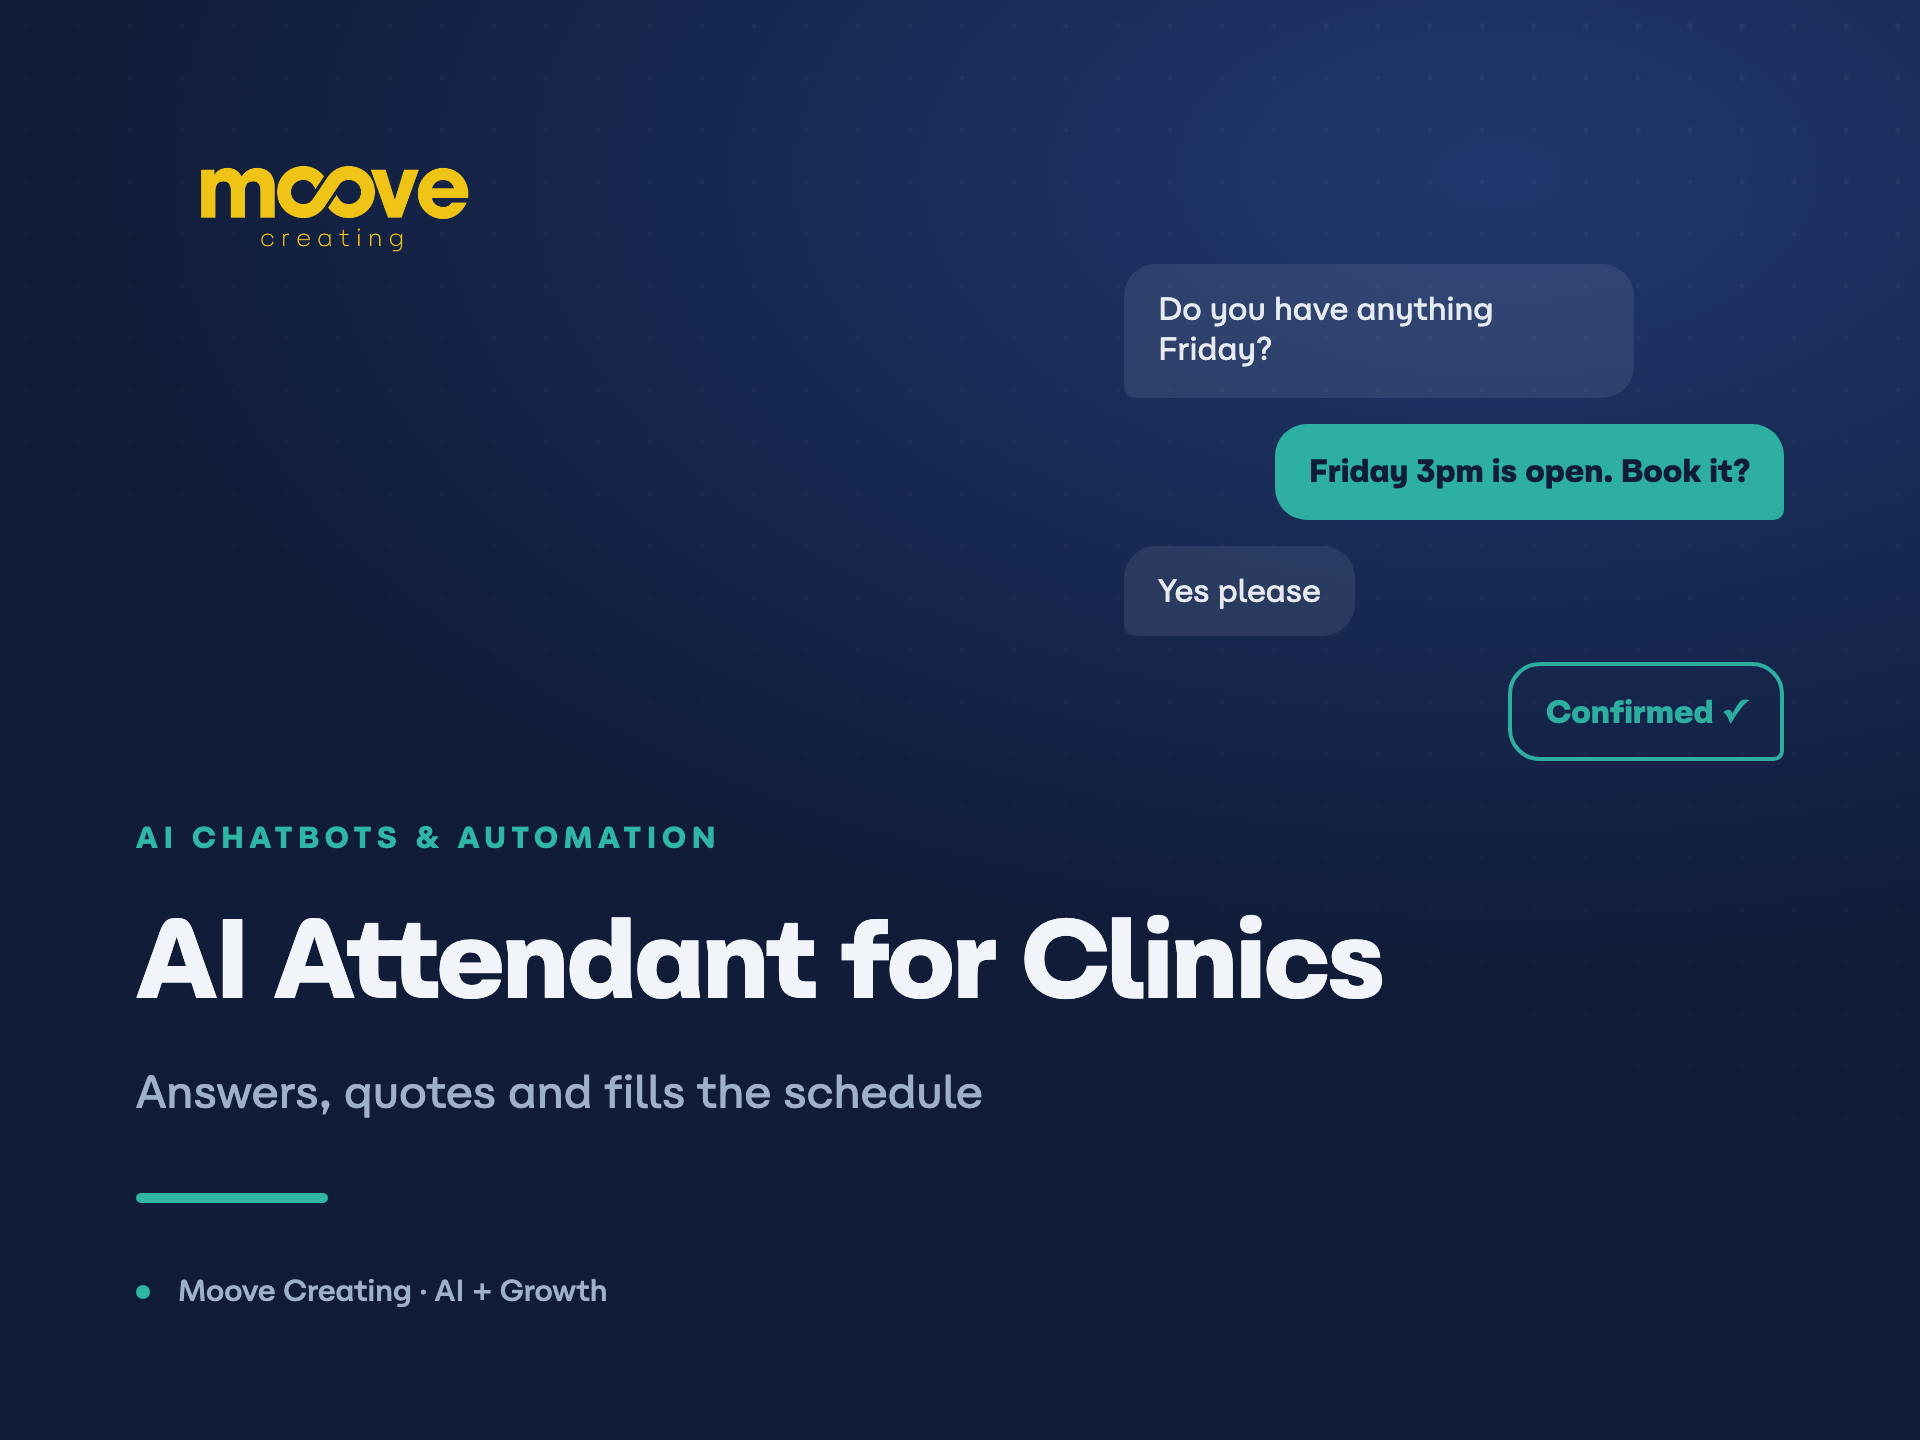
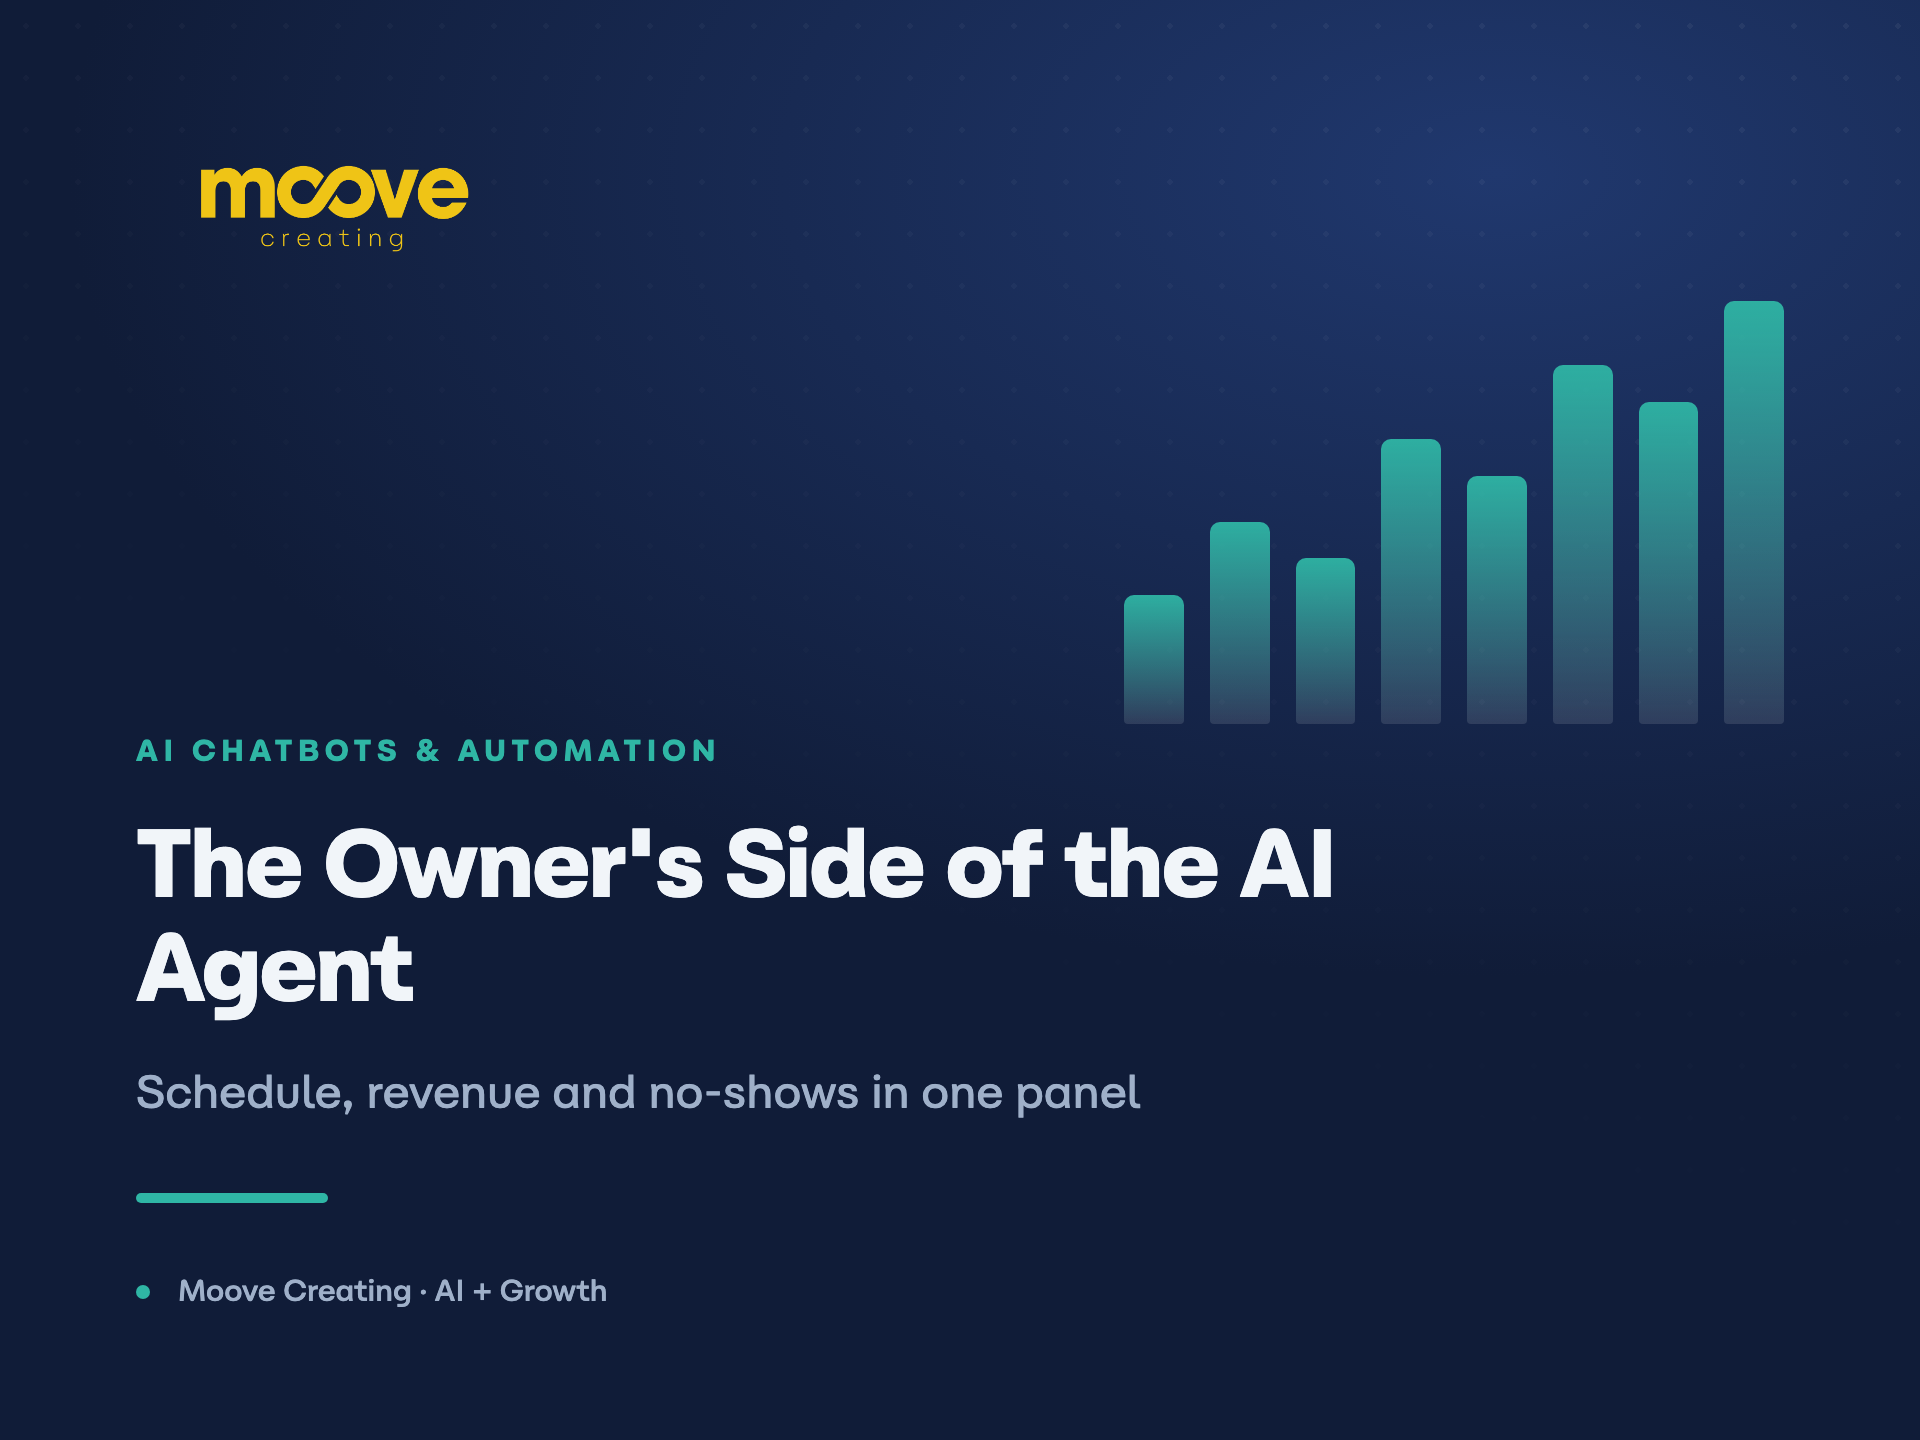
Fix CRM video tag; walkthroughs now HTML with readable full-size images per stage; 1-2 cover retitled to barbershop; rename service to Lead Generation & Outreach

diff --git a/4-1-webinar-funnel.html b/4-1-webinar-funnel.html
@@ -33,6 +33,19 @@ p{font-size:18px;color:#d7e0ea;margin-bottom:18px;max-width:44em}
 .shot img,.shot video{width:100%;display:block;background:#0d1730}
 .shot.wide img{border-bottom:1px solid rgba(255,255,255,.06)}
 .shot figcaption{padding:13px 16px 16px;font-size:13.5px;color:var(--dim);line-height:1.45}
+.stages{display:flex;flex-direction:column;gap:46px;margin-top:14px}
+.stg{display:flex;gap:26px;align-items:flex-start}
+.stg .num{width:46px;height:46px;border-radius:50%;background:var(--accent,var(--teal));color:#101C38;font-weight:800;
+ font-size:18px;display:flex;align-items:center;justify-content:center;flex:none}
+.stg .txt{flex:1;min-width:220px;max-width:22em;padding-top:3px}
+.stg .txt h4{font-size:22px;font-weight:800;color:var(--accent,var(--teal));margin-bottom:9px;letter-spacing:-.01em}
+.stg .txt p{font-size:17px;color:#d7e0ea;margin:0}
+.stg .stgimg{flex:none;display:block;border-radius:13px;overflow:hidden;border:1px solid rgba(255,255,255,.14);
+ box-shadow:0 16px 40px -18px rgba(0,0,0,.6);background:#0d1730}
+.stg .stgimg img{display:block}
+.stg .stgimg.portrait img{height:440px;width:auto;max-width:100%}
+.stg .stgimg.landscape img{width:560px;max-width:100%;height:auto}
+@media(max-width:820px){.stg{flex-wrap:wrap}.stg .stgimg.landscape img{width:100%}.stg .stgimg.portrait img{height:auto;width:100%}}
 .meta{display:flex;flex-wrap:wrap;gap:34px;margin-top:44px;padding-top:30px;border-top:1px solid rgba(255,255,255,.1)}
 .meta div small{display:block;font-size:12px;letter-spacing:.16em;text-transform:uppercase;color:var(--dim);margin-bottom:6px}
 .meta div span{font-size:16px;font-weight:600}
@@ -53,17 +66,17 @@ footer{border-top:1px solid rgba(255,255,255,.08);margin-top:80px;padding:34px 2
 <a class=back href="./index.html">← All work</a></div></div>
 <main>
 <div class=hero>
-<div class=eyebrow>Lead Generation & Telemarketing</div>
+<div class=eyebrow>Lead Generation & Outreach</div>
 <h1>End-to-End Webinar &amp; Ebook Funnel for a Real Estate Educator</h1>
 <p class=lede>A real estate educator had an engaged audience but no repeatable way to turn attention into registrations and program sales. Every launch was assembled from scratch, results were impossible to compare between cycles, and there was no way to tell which part of the promotion was doing the work.</p>
 </div>
 <img class=cover src="covers/4-1-webinar-funnel.png" alt="End-to-End Webinar &amp; Ebook Funnel for a Real Estate Educator">
 <h2>What we built</h2>
 <p>We built the funnel end to end. Registration and thank-you pages with Meta Pixel conversion tracking, an ebook lead-magnet funnel feeding the top, and a full lifecycle email sequence covering reminders, no-show re-engagement and a post-webinar replay-and-offer flow. Meta ad campaigns were structured across three distinct audiences to drive registrations, with tracking clean enough to read exactly which audience and which creative converted. A live dashboard pulls ads, organic and video data automatically, so performance is visible during the launch rather than after it.</p><p>The brand now owns a launch-ready system it reuses every cycle: tracked registrations, automated follow-up that recovers no-shows on its own, and ad structures built to scale profitably instead of being rebuilt each time.</p>
-<h2>Inside the project</h2><div class=shots><figure class="shot wide"><img src="shots/funnel-webinar-walkthrough.png" alt="The funnel stage by stage, each step tracked" loading="lazy"><figcaption>The funnel stage by stage, each step tracked</figcaption></figure></div>
+<h2>Inside the project</h2><div class=shots><div class=stages><div class=stg><div class=num>1</div><div class=txt><h4>Attract</h4><p>Meta ads across three audiences drive registrations, all conversion-tracked.</p></div><a class="stgimg portrait" href="shots/ad-skles.png" target="_blank" rel="noopener"><img src="shots/ad-skles.png" alt="Attract" loading="lazy"></a></div><div class=stg><div class=num>2</div><div class=txt><h4>Capture</h4><p>A registration email plus a landing page with the Meta Pixel firing on submit.</p></div><a class="stgimg portrait" href="shots/funnel-email-registration.png" target="_blank" rel="noopener"><img src="shots/funnel-email-registration.png" alt="Capture" loading="lazy"></a></div><div class=stg><div class=num>3</div><div class=txt><h4>Nurture</h4><p>An ebook lead magnet delivers value and warms the lead before the webinar.</p></div><a class="stgimg landscape" href="shots/funnel-ebook-lp.png" target="_blank" rel="noopener"><img src="shots/funnel-ebook-lp.png" alt="Nurture" loading="lazy"></a></div><div class=stg><div class=num>4</div><div class=txt><h4>Retain</h4><p>A nine-email sequence: reminders, no-show re-engagement, and a replay-and-offer flow.</p></div><a class="stgimg portrait" href="shots/funnel-email-noshow.png" target="_blank" rel="noopener"><img src="shots/funnel-email-noshow.png" alt="Retain" loading="lazy"></a></div><div class=stg><div class=num>5</div><div class=txt><h4>Convert</h4><p>The thank-you page closes the loop and fires the conversion event.</p></div><a class="stgimg landscape" href="shots/funnel-thankyou.png" target="_blank" rel="noopener"><img src="shots/funnel-thankyou.png" alt="Convert" loading="lazy"></a></div></div></div>
 <h2>Skills</h2>
 <div class=tags><b>Sales Funnel</b><b>Lead Generation</b><b>Email Marketing</b><b>Landing Page</b><b>Facebook Ads Manager</b><b>Conversion Rate Optimization</b><b>Copywriting</b><b>Marketing Automation</b><b>Email Campaign Setup</b><b>Conversion Tracking</b></div>
-<div class=meta><div><small>Service</small><span>Lead Generation & Telemarketing</span></div>
+<div class=meta><div><small>Service</small><span>Lead Generation & Outreach</span></div>
 <div><small>Category</small><span>Sales &amp; Marketing → Lead Generation</span></div></div>
 </main>
 <footer>Moove Creating · AI automation and growth marketing</footer></body></html>

diff --git a/4-2-lead-recovery.html b/4-2-lead-recovery.html
@@ -33,6 +33,19 @@ p{font-size:18px;color:#d7e0ea;margin-bottom:18px;max-width:44em}
 .shot img,.shot video{width:100%;display:block;background:#0d1730}
 .shot.wide img{border-bottom:1px solid rgba(255,255,255,.06)}
 .shot figcaption{padding:13px 16px 16px;font-size:13.5px;color:var(--dim);line-height:1.45}
+.stages{display:flex;flex-direction:column;gap:46px;margin-top:14px}
+.stg{display:flex;gap:26px;align-items:flex-start}
+.stg .num{width:46px;height:46px;border-radius:50%;background:var(--accent,var(--teal));color:#101C38;font-weight:800;
+ font-size:18px;display:flex;align-items:center;justify-content:center;flex:none}
+.stg .txt{flex:1;min-width:220px;max-width:22em;padding-top:3px}
+.stg .txt h4{font-size:22px;font-weight:800;color:var(--accent,var(--teal));margin-bottom:9px;letter-spacing:-.01em}
+.stg .txt p{font-size:17px;color:#d7e0ea;margin:0}
+.stg .stgimg{flex:none;display:block;border-radius:13px;overflow:hidden;border:1px solid rgba(255,255,255,.14);
+ box-shadow:0 16px 40px -18px rgba(0,0,0,.6);background:#0d1730}
+.stg .stgimg img{display:block}
+.stg .stgimg.portrait img{height:440px;width:auto;max-width:100%}
+.stg .stgimg.landscape img{width:560px;max-width:100%;height:auto}
+@media(max-width:820px){.stg{flex-wrap:wrap}.stg .stgimg.landscape img{width:100%}.stg .stgimg.portrait img{height:auto;width:100%}}
 .meta{display:flex;flex-wrap:wrap;gap:34px;margin-top:44px;padding-top:30px;border-top:1px solid rgba(255,255,255,.1)}
 .meta div small{display:block;font-size:12px;letter-spacing:.16em;text-transform:uppercase;color:var(--dim);margin-bottom:6px}
 .meta div span{font-size:16px;font-weight:600}
@@ -53,7 +66,7 @@ footer{border-top:1px solid rgba(255,255,255,.08);margin-top:80px;padding:34px 2
 <a class=back href="./index.html">← All work</a></div></div>
 <main>
 <div class=hero>
-<div class=eyebrow>Lead Generation & Telemarketing</div>
+<div class=eyebrow>Lead Generation & Outreach</div>
 <h1>Diagnosing a 65% Lead Drop and Rebuilding the Acquisition Channel Mix</h1>
 <p class=lede>Monthly leads fell sharply and nobody could explain why. Spend was still going out the door, the pipeline was not filling, and the team was preparing to overhaul the creative, on the assumption that the ads had stopped working.</p>
 </div>
@@ -63,7 +76,7 @@ footer{border-top:1px solid rgba(255,255,255,.08);margin-top:80px;padding:34px 2
 <h2>Inside the project</h2><div class=shots><figure class="shot wide"><img src="shots/lead-drop-chart.png" alt="Diagnosing the 65% drop: the cause was a paused campaign, then the recovery" loading="lazy"><figcaption>Diagnosing the 65% drop: the cause was a paused campaign, then the recovery</figcaption></figure><figure class="shot wide"><img src="shots/se-dashboard.png" alt="The reporting that now flags this kind of drop the week it starts" loading="lazy"><figcaption>The reporting that now flags this kind of drop the week it starts</figcaption></figure></div>
 <h2>Skills</h2>
 <div class=tags><b>Lead Generation</b><b>Paid Media</b><b>Google Ads</b><b>Facebook Ads Manager</b><b>Marketing Analytics</b><b>Campaign Optimization</b><b>Marketing Strategy</b><b>Data Analysis</b><b>Retargeting</b></div>
-<div class=meta><div><small>Service</small><span>Lead Generation & Telemarketing</span></div>
+<div class=meta><div><small>Service</small><span>Lead Generation & Outreach</span></div>
 <div><small>Category</small><span>Sales &amp; Marketing → Lead Generation</span></div></div>
 </main>
 <footer>Moove Creating · AI automation and growth marketing</footer></body></html>

diff --git a/2-3-custom-crm.html b/2-3-custom-crm.html
@@ -33,6 +33,19 @@ p{font-size:18px;color:#d7e0ea;margin-bottom:18px;max-width:44em}
 .shot img,.shot video{width:100%;display:block;background:#0d1730}
 .shot.wide img{border-bottom:1px solid rgba(255,255,255,.06)}
 .shot figcaption{padding:13px 16px 16px;font-size:13.5px;color:var(--dim);line-height:1.45}
+.stages{display:flex;flex-direction:column;gap:46px;margin-top:14px}
+.stg{display:flex;gap:26px;align-items:flex-start}
+.stg .num{width:46px;height:46px;border-radius:50%;background:var(--accent,var(--teal));color:#101C38;font-weight:800;
+ font-size:18px;display:flex;align-items:center;justify-content:center;flex:none}
+.stg .txt{flex:1;min-width:220px;max-width:22em;padding-top:3px}
+.stg .txt h4{font-size:22px;font-weight:800;color:var(--accent,var(--teal));margin-bottom:9px;letter-spacing:-.01em}
+.stg .txt p{font-size:17px;color:#d7e0ea;margin:0}
+.stg .stgimg{flex:none;display:block;border-radius:13px;overflow:hidden;border:1px solid rgba(255,255,255,.14);
+ box-shadow:0 16px 40px -18px rgba(0,0,0,.6);background:#0d1730}
+.stg .stgimg img{display:block}
+.stg .stgimg.portrait img{height:440px;width:auto;max-width:100%}
+.stg .stgimg.landscape img{width:560px;max-width:100%;height:auto}
+@media(max-width:820px){.stg{flex-wrap:wrap}.stg .stgimg.landscape img{width:100%}.stg .stgimg.portrait img{height:auto;width:100%}}
 .meta{display:flex;flex-wrap:wrap;gap:34px;margin-top:44px;padding-top:30px;border-top:1px solid rgba(255,255,255,.1)}
 .meta div small{display:block;font-size:12px;letter-spacing:.16em;text-transform:uppercase;color:var(--dim);margin-bottom:6px}
 .meta div span{font-size:16px;font-weight:600}
@@ -60,7 +73,7 @@ footer{border-top:1px solid rgba(255,255,255,.08);margin-top:80px;padding:34px 2
 <img class=cover src="covers/2-3-custom-crm.png" alt="Custom Web CRM with Live-Synced Pipelines and Automated Follow-Up">
 <h2>What we built</h2>
 <p>We built a custom web CRM with a separate pipeline per business line, syncing live across devices so everyone sees the same board at the same time. Each lead carries a stage, an owner and a next action, so nothing sits in limbo. Automated follow-up reminders fire on their own, and the CRM is wired into the outreach flow so every contact and reply attaches to the lead automatically. No one has to remember to log anything.</p><p>The result is one source of truth instead of three. Follow-up happens whether or not someone remembers it, and the pipeline can be read at a glance instead of reconstructed from notes at the end of the week.</p>
-<h2>Inside the project</h2><div class=shots><figure class="shot wide"><img src="shots/crm-board.png" alt="Live-synced pipeline board, one workspace per business line" loading="lazy"><figcaption>Live-synced pipeline board, one workspace per business line</figcaption></figure><figure class="shot wide"><img src="shots/crm-lead.png" alt="Inside a lead: stage, owner, and an activity trail of automated follow-up" loading="lazy"><figcaption>Inside a lead: stage, owner, and an activity trail of automated follow-up</figcaption></figure><div class=grid3><figure class=shot><img src="shots/crm-demo.mp4" alt="A walk through the CRM: pipeline board, then inside a lead with its automated follow-up trail" loading="lazy"><figcaption>A walk through the CRM: pipeline board, then inside a lead with its automated follow-up trail</figcaption></figure></div></div>
+<h2>Inside the project</h2><div class=shots><figure class="shot wide"><video src="shots/crm-demo.mp4" autoplay muted loop playsinline controls></video><figcaption>A walk through the CRM: pipeline board, then inside a lead with its automated follow-up trail</figcaption></figure><figure class="shot wide"><img src="shots/crm-board.png" alt="Live-synced pipeline board, one workspace per business line" loading="lazy"><figcaption>Live-synced pipeline board, one workspace per business line</figcaption></figure><figure class="shot wide"><img src="shots/crm-lead.png" alt="Inside a lead: stage, owner, and an activity trail of automated follow-up" loading="lazy"><figcaption>Inside a lead: stage, owner, and an activity trail of automated follow-up</figcaption></figure></div>
 <h2>Skills</h2>
 <div class=tags><b>CRM Software</b><b>Web Application</b><b>Firebase</b><b>JavaScript</b><b>API Integration</b><b>Automated Workflow</b><b>CRM Automation</b><b>Database Design</b><b>Lead Management</b></div>
 <div class=meta><div><small>Service</small><span>AI Apps & Integration</span></div>

diff --git a/3-2-growth-system.html b/3-2-growth-system.html
@@ -33,6 +33,19 @@ p{font-size:18px;color:#d7e0ea;margin-bottom:18px;max-width:44em}
 .shot img,.shot video{width:100%;display:block;background:#0d1730}
 .shot.wide img{border-bottom:1px solid rgba(255,255,255,.06)}
 .shot figcaption{padding:13px 16px 16px;font-size:13.5px;color:var(--dim);line-height:1.45}
+.stages{display:flex;flex-direction:column;gap:46px;margin-top:14px}
+.stg{display:flex;gap:26px;align-items:flex-start}
+.stg .num{width:46px;height:46px;border-radius:50%;background:var(--accent,var(--teal));color:#101C38;font-weight:800;
+ font-size:18px;display:flex;align-items:center;justify-content:center;flex:none}
+.stg .txt{flex:1;min-width:220px;max-width:22em;padding-top:3px}
+.stg .txt h4{font-size:22px;font-weight:800;color:var(--accent,var(--teal));margin-bottom:9px;letter-spacing:-.01em}
+.stg .txt p{font-size:17px;color:#d7e0ea;margin:0}
+.stg .stgimg{flex:none;display:block;border-radius:13px;overflow:hidden;border:1px solid rgba(255,255,255,.14);
+ box-shadow:0 16px 40px -18px rgba(0,0,0,.6);background:#0d1730}
+.stg .stgimg img{display:block}
+.stg .stgimg.portrait img{height:440px;width:auto;max-width:100%}
+.stg .stgimg.landscape img{width:560px;max-width:100%;height:auto}
+@media(max-width:820px){.stg{flex-wrap:wrap}.stg .stgimg.landscape img{width:100%}.stg .stgimg.portrait img{height:auto;width:100%}}
 .meta{display:flex;flex-wrap:wrap;gap:34px;margin-top:44px;padding-top:30px;border-top:1px solid rgba(255,255,255,.1)}
 .meta div small{display:block;font-size:12px;letter-spacing:.16em;text-transform:uppercase;color:var(--dim);margin-bottom:6px}
 .meta div span{font-size:16px;font-weight:600}
@@ -60,7 +73,7 @@ footer{border-top:1px solid rgba(255,255,255,.08);margin-top:80px;padding:34px 2
 <img class=cover src="covers/3-2-growth-system.png" alt="Growth System &amp; Performance Intelligence for a B2B Brand">
 <h2>What we built</h2>
 <p>We led content and paid strategy across Meta and Google, built the landing pages and the webinar promotion funnel behind the campaigns, and created dashboards connecting content and ad performance back to leads. On top of that we established a weekly performance ritual: a fixed read of the numbers to catch patterns early, kill what was not working and put budget behind what was. Strategy stopped being an annual document and became a weekly decision backed by data.</p><p>The brand ended up with a documented growth-and-reporting system, a clear read on the full funnel from impression to lead, and a repeatable process for deciding where the next dollar goes.</p>
-<h2>Inside the project</h2><div class=shots><figure class="shot wide"><img src="shots/growth-walkthrough.png" alt="The system stage by stage, from ad creative to the dashboard that measures it" loading="lazy"><figcaption>The system stage by stage, from ad creative to the dashboard that measures it</figcaption></figure></div>
+<h2>Inside the project</h2><div class=shots><div class=stages><div class=stg><div class=num>1</div><div class=txt><h4>Attract</h4><p>Organic and paid creative on Meta and Google, built on audience data.</p></div><a class="stgimg portrait" href="shots/ad-se-ig.png" target="_blank" rel="noopener"><img src="shots/ad-se-ig.png" alt="Attract" loading="lazy"></a></div><div class=stg><div class=num>2</div><div class=txt><h4>Capture</h4><p>Landing pages and a webinar funnel with clean conversion tracking.</p></div><a class="stgimg landscape" href="shots/se-landing.png" target="_blank" rel="noopener"><img src="shots/se-landing.png" alt="Capture" loading="lazy"></a></div><div class=stg><div class=num>3</div><div class=txt><h4>Convert</h4><p>Retargeting and email nurture turn attention into qualified leads.</p></div><a class="stgimg landscape" href="shots/ad-se-carousel.png" target="_blank" rel="noopener"><img src="shots/ad-se-carousel.png" alt="Convert" loading="lazy"></a></div><div class=stg><div class=num>4</div><div class=txt><h4>Measure</h4><p>Live dashboards tie every channel&#x27;s performance back to leads.</p></div><a class="stgimg landscape" href="shots/se-dashboard.png" target="_blank" rel="noopener"><img src="shots/se-dashboard.png" alt="Measure" loading="lazy"></a></div><div class=stg><div class=num>5</div><div class=txt><h4>Decide</h4><p>A weekly report to leadership that turns the numbers into one clear call: what to scale, what to hold.</p></div><a class="stgimg portrait" href="shots/weekly-report-email.png" target="_blank" rel="noopener"><img src="shots/weekly-report-email.png" alt="Decide" loading="lazy"></a></div></div></div>
 <h2>Skills</h2>
 <div class=tags><b>Marketing Strategy</b><b>Social Media Marketing</b><b>Paid Media</b><b>Campaign Management</b><b>Landing Page</b><b>Marketing Analytics</b><b>Content Strategy</b><b>Facebook Ads Manager</b><b>Google Ads</b><b>Dashboard</b></div>
 <div class=meta><div><small>Service</small><span>Digital Marketing</span></div>

diff --git a/index.html b/index.html
@@ -33,6 +33,19 @@ p{font-size:18px;color:#d7e0ea;margin-bottom:18px;max-width:44em}
 .shot img,.shot video{width:100%;display:block;background:#0d1730}
 .shot.wide img{border-bottom:1px solid rgba(255,255,255,.06)}
 .shot figcaption{padding:13px 16px 16px;font-size:13.5px;color:var(--dim);line-height:1.45}
+.stages{display:flex;flex-direction:column;gap:46px;margin-top:14px}
+.stg{display:flex;gap:26px;align-items:flex-start}
+.stg .num{width:46px;height:46px;border-radius:50%;background:var(--accent,var(--teal));color:#101C38;font-weight:800;
+ font-size:18px;display:flex;align-items:center;justify-content:center;flex:none}
+.stg .txt{flex:1;min-width:220px;max-width:22em;padding-top:3px}
+.stg .txt h4{font-size:22px;font-weight:800;color:var(--accent,var(--teal));margin-bottom:9px;letter-spacing:-.01em}
+.stg .txt p{font-size:17px;color:#d7e0ea;margin:0}
+.stg .stgimg{flex:none;display:block;border-radius:13px;overflow:hidden;border:1px solid rgba(255,255,255,.14);
+ box-shadow:0 16px 40px -18px rgba(0,0,0,.6);background:#0d1730}
+.stg .stgimg img{display:block}
+.stg .stgimg.portrait img{height:440px;width:auto;max-width:100%}
+.stg .stgimg.landscape img{width:560px;max-width:100%;height:auto}
+@media(max-width:820px){.stg{flex-wrap:wrap}.stg .stgimg.landscape img{width:100%}.stg .stgimg.portrait img{height:auto;width:100%}}
 .meta{display:flex;flex-wrap:wrap;gap:34px;margin-top:44px;padding-top:30px;border-top:1px solid rgba(255,255,255,.1)}
 .meta div small{display:block;font-size:12px;letter-spacing:.16em;text-transform:uppercase;color:var(--dim);margin-bottom:6px}
 .meta div span{font-size:16px;font-weight:600}
@@ -66,7 +79,7 @@ footer{border-top:1px solid rgba(255,255,255,.08);margin-top:80px;padding:34px 2
       <div class=b><h3>Custom Web CRM with Live-Synced Pipelines and Automated Follow-Up</h3><p>Leads lived in scattered notes and spreadsheets. Two people were working the same pipeline from different devices with different v…</p></div></a></div></div><div class=group><span style="color:#F8AF38">Digital Marketing</span><div class=cards><a class=card href="3-1-content-pipeline.html"><img src="covers/3-1-content-pipeline.png" alt="">
       <div class=b><h3>AI Content Pipeline: Turning Interviews into Ad Creative at Scale</h3><p>A brand had hours of raw interview footage and no efficient way to turn it into advertising. Finding the moments worth using meant…</p></div></a><a class=card href="3-2-growth-system.html"><img src="covers/3-2-growth-system.png" alt="">
       <div class=b><h3>Growth System &amp; Performance Intelligence for a B2B Brand</h3><p>A B2B brand was producing content and spending on ads without a system tying either back to results. Effort was scattered across c…</p></div></a><a class=card href="3-3-medical-authority.html"><img src="covers/3-3-medical-authority.png" alt="">
-      <div class=b><h3>Building Medical Authority: 100M+ Reach for a Doctor Creator</h3><p>A doctor with real expertise had no meaningful digital presence, and the obvious path to reach in health content is the one that c…</p></div></a></div></div><div class=group><span style="color:#5FC24D">Lead Generation & Telemarketing</span><div class=cards><a class=card href="4-1-webinar-funnel.html"><img src="covers/4-1-webinar-funnel.png" alt="">
+      <div class=b><h3>Building Medical Authority: 100M+ Reach for a Doctor Creator</h3><p>A doctor with real expertise had no meaningful digital presence, and the obvious path to reach in health content is the one that c…</p></div></a></div></div><div class=group><span style="color:#5FC24D">Lead Generation & Outreach</span><div class=cards><a class=card href="4-1-webinar-funnel.html"><img src="covers/4-1-webinar-funnel.png" alt="">
       <div class=b><h3>End-to-End Webinar &amp; Ebook Funnel for a Real Estate Educator</h3><p>A real estate educator had an engaged audience but no repeatable way to turn attention into registrations and program sales. Every…</p></div></a><a class=card href="4-2-lead-recovery.html"><img src="covers/4-2-lead-recovery.png" alt="">
       <div class=b><h3>Diagnosing a 65% Lead Drop and Rebuilding the Acquisition Channel Mix</h3><p>Monthly leads fell sharply and nobody could explain why. Spend was still going out the door, the pipeline was not filling, and the…</p></div></a></div></div>
 </main>

diff --git a/1-1-whatsapp-agent.html b/1-1-whatsapp-agent.html
@@ -33,6 +33,19 @@ p{font-size:18px;color:#d7e0ea;margin-bottom:18px;max-width:44em}
 .shot img,.shot video{width:100%;display:block;background:#0d1730}
 .shot.wide img{border-bottom:1px solid rgba(255,255,255,.06)}
 .shot figcaption{padding:13px 16px 16px;font-size:13.5px;color:var(--dim);line-height:1.45}
+.stages{display:flex;flex-direction:column;gap:46px;margin-top:14px}
+.stg{display:flex;gap:26px;align-items:flex-start}
+.stg .num{width:46px;height:46px;border-radius:50%;background:var(--accent,var(--teal));color:#101C38;font-weight:800;
+ font-size:18px;display:flex;align-items:center;justify-content:center;flex:none}
+.stg .txt{flex:1;min-width:220px;max-width:22em;padding-top:3px}
+.stg .txt h4{font-size:22px;font-weight:800;color:var(--accent,var(--teal));margin-bottom:9px;letter-spacing:-.01em}
+.stg .txt p{font-size:17px;color:#d7e0ea;margin:0}
+.stg .stgimg{flex:none;display:block;border-radius:13px;overflow:hidden;border:1px solid rgba(255,255,255,.14);
+ box-shadow:0 16px 40px -18px rgba(0,0,0,.6);background:#0d1730}
+.stg .stgimg img{display:block}
+.stg .stgimg.portrait img{height:440px;width:auto;max-width:100%}
+.stg .stgimg.landscape img{width:560px;max-width:100%;height:auto}
+@media(max-width:820px){.stg{flex-wrap:wrap}.stg .stgimg.landscape img{width:100%}.stg .stgimg.portrait img{height:auto;width:100%}}
 .meta{display:flex;flex-wrap:wrap;gap:34px;margin-top:44px;padding-top:30px;border-top:1px solid rgba(255,255,255,.1)}
 .meta div small{display:block;font-size:12px;letter-spacing:.16em;text-transform:uppercase;color:var(--dim);margin-bottom:6px}
 .meta div span{font-size:16px;font-weight:600}

diff --git a/1-2-clinic-agent.html b/1-2-clinic-agent.html
@@ -33,6 +33,19 @@ p{font-size:18px;color:#d7e0ea;margin-bottom:18px;max-width:44em}
 .shot img,.shot video{width:100%;display:block;background:#0d1730}
 .shot.wide img{border-bottom:1px solid rgba(255,255,255,.06)}
 .shot figcaption{padding:13px 16px 16px;font-size:13.5px;color:var(--dim);line-height:1.45}
+.stages{display:flex;flex-direction:column;gap:46px;margin-top:14px}
+.stg{display:flex;gap:26px;align-items:flex-start}
+.stg .num{width:46px;height:46px;border-radius:50%;background:var(--accent,var(--teal));color:#101C38;font-weight:800;
+ font-size:18px;display:flex;align-items:center;justify-content:center;flex:none}
+.stg .txt{flex:1;min-width:220px;max-width:22em;padding-top:3px}
+.stg .txt h4{font-size:22px;font-weight:800;color:var(--accent,var(--teal));margin-bottom:9px;letter-spacing:-.01em}
+.stg .txt p{font-size:17px;color:#d7e0ea;margin:0}
+.stg .stgimg{flex:none;display:block;border-radius:13px;overflow:hidden;border:1px solid rgba(255,255,255,.14);
+ box-shadow:0 16px 40px -18px rgba(0,0,0,.6);background:#0d1730}
+.stg .stgimg img{display:block}
+.stg .stgimg.portrait img{height:440px;width:auto;max-width:100%}
+.stg .stgimg.landscape img{width:560px;max-width:100%;height:auto}
+@media(max-width:820px){.stg{flex-wrap:wrap}.stg .stgimg.landscape img{width:100%}.stg .stgimg.portrait img{height:auto;width:100%}}
 .meta{display:flex;flex-wrap:wrap;gap:34px;margin-top:44px;padding-top:30px;border-top:1px solid rgba(255,255,255,.1)}
 .meta div small{display:block;font-size:12px;letter-spacing:.16em;text-transform:uppercase;color:var(--dim);margin-bottom:6px}
 .meta div span{font-size:16px;font-weight:600}

diff --git a/1-3-internal-ops.html b/1-3-internal-ops.html
@@ -33,6 +33,19 @@ p{font-size:18px;color:#d7e0ea;margin-bottom:18px;max-width:44em}
 .shot img,.shot video{width:100%;display:block;background:#0d1730}
 .shot.wide img{border-bottom:1px solid rgba(255,255,255,.06)}
 .shot figcaption{padding:13px 16px 16px;font-size:13.5px;color:var(--dim);line-height:1.45}
+.stages{display:flex;flex-direction:column;gap:46px;margin-top:14px}
+.stg{display:flex;gap:26px;align-items:flex-start}
+.stg .num{width:46px;height:46px;border-radius:50%;background:var(--accent,var(--teal));color:#101C38;font-weight:800;
+ font-size:18px;display:flex;align-items:center;justify-content:center;flex:none}
+.stg .txt{flex:1;min-width:220px;max-width:22em;padding-top:3px}
+.stg .txt h4{font-size:22px;font-weight:800;color:var(--accent,var(--teal));margin-bottom:9px;letter-spacing:-.01em}
+.stg .txt p{font-size:17px;color:#d7e0ea;margin:0}
+.stg .stgimg{flex:none;display:block;border-radius:13px;overflow:hidden;border:1px solid rgba(255,255,255,.14);
+ box-shadow:0 16px 40px -18px rgba(0,0,0,.6);background:#0d1730}
+.stg .stgimg img{display:block}
+.stg .stgimg.portrait img{height:440px;width:auto;max-width:100%}
+.stg .stgimg.landscape img{width:560px;max-width:100%;height:auto}
+@media(max-width:820px){.stg{flex-wrap:wrap}.stg .stgimg.landscape img{width:100%}.stg .stgimg.portrait img{height:auto;width:100%}}
 .meta{display:flex;flex-wrap:wrap;gap:34px;margin-top:44px;padding-top:30px;border-top:1px solid rgba(255,255,255,.1)}
 .meta div small{display:block;font-size:12px;letter-spacing:.16em;text-transform:uppercase;color:var(--dim);margin-bottom:6px}
 .meta div span{font-size:16px;font-weight:600}

diff --git a/2-1-vertical-saas.html b/2-1-vertical-saas.html
@@ -33,6 +33,19 @@ p{font-size:18px;color:#d7e0ea;margin-bottom:18px;max-width:44em}
 .shot img,.shot video{width:100%;display:block;background:#0d1730}
 .shot.wide img{border-bottom:1px solid rgba(255,255,255,.06)}
 .shot figcaption{padding:13px 16px 16px;font-size:13.5px;color:var(--dim);line-height:1.45}
+.stages{display:flex;flex-direction:column;gap:46px;margin-top:14px}
+.stg{display:flex;gap:26px;align-items:flex-start}
+.stg .num{width:46px;height:46px;border-radius:50%;background:var(--accent,var(--teal));color:#101C38;font-weight:800;
+ font-size:18px;display:flex;align-items:center;justify-content:center;flex:none}
+.stg .txt{flex:1;min-width:220px;max-width:22em;padding-top:3px}
+.stg .txt h4{font-size:22px;font-weight:800;color:var(--accent,var(--teal));margin-bottom:9px;letter-spacing:-.01em}
+.stg .txt p{font-size:17px;color:#d7e0ea;margin:0}
+.stg .stgimg{flex:none;display:block;border-radius:13px;overflow:hidden;border:1px solid rgba(255,255,255,.14);
+ box-shadow:0 16px 40px -18px rgba(0,0,0,.6);background:#0d1730}
+.stg .stgimg img{display:block}
+.stg .stgimg.portrait img{height:440px;width:auto;max-width:100%}
+.stg .stgimg.landscape img{width:560px;max-width:100%;height:auto}
+@media(max-width:820px){.stg{flex-wrap:wrap}.stg .stgimg.landscape img{width:100%}.stg .stgimg.portrait img{height:auto;width:100%}}
 .meta{display:flex;flex-wrap:wrap;gap:34px;margin-top:44px;padding-top:30px;border-top:1px solid rgba(255,255,255,.1)}
 .meta div small{display:block;font-size:12px;letter-spacing:.16em;text-transform:uppercase;color:var(--dim);margin-bottom:6px}
 .meta div span{font-size:16px;font-weight:600}

diff --git a/2-2-live-dashboard.html b/2-2-live-dashboard.html
@@ -33,6 +33,19 @@ p{font-size:18px;color:#d7e0ea;margin-bottom:18px;max-width:44em}
 .shot img,.shot video{width:100%;display:block;background:#0d1730}
 .shot.wide img{border-bottom:1px solid rgba(255,255,255,.06)}
 .shot figcaption{padding:13px 16px 16px;font-size:13.5px;color:var(--dim);line-height:1.45}
+.stages{display:flex;flex-direction:column;gap:46px;margin-top:14px}
+.stg{display:flex;gap:26px;align-items:flex-start}
+.stg .num{width:46px;height:46px;border-radius:50%;background:var(--accent,var(--teal));color:#101C38;font-weight:800;
+ font-size:18px;display:flex;align-items:center;justify-content:center;flex:none}
+.stg .txt{flex:1;min-width:220px;max-width:22em;padding-top:3px}
+.stg .txt h4{font-size:22px;font-weight:800;color:var(--accent,var(--teal));margin-bottom:9px;letter-spacing:-.01em}
+.stg .txt p{font-size:17px;color:#d7e0ea;margin:0}
+.stg .stgimg{flex:none;display:block;border-radius:13px;overflow:hidden;border:1px solid rgba(255,255,255,.14);
+ box-shadow:0 16px 40px -18px rgba(0,0,0,.6);background:#0d1730}
+.stg .stgimg img{display:block}
+.stg .stgimg.portrait img{height:440px;width:auto;max-width:100%}
+.stg .stgimg.landscape img{width:560px;max-width:100%;height:auto}
+@media(max-width:820px){.stg{flex-wrap:wrap}.stg .stgimg.landscape img{width:100%}.stg .stgimg.portrait img{height:auto;width:100%}}
 .meta{display:flex;flex-wrap:wrap;gap:34px;margin-top:44px;padding-top:30px;border-top:1px solid rgba(255,255,255,.1)}
 .meta div small{display:block;font-size:12px;letter-spacing:.16em;text-transform:uppercase;color:var(--dim);margin-bottom:6px}
 .meta div span{font-size:16px;font-weight:600}

diff --git a/3-1-content-pipeline.html b/3-1-content-pipeline.html
@@ -33,6 +33,19 @@ p{font-size:18px;color:#d7e0ea;margin-bottom:18px;max-width:44em}
 .shot img,.shot video{width:100%;display:block;background:#0d1730}
 .shot.wide img{border-bottom:1px solid rgba(255,255,255,.06)}
 .shot figcaption{padding:13px 16px 16px;font-size:13.5px;color:var(--dim);line-height:1.45}
+.stages{display:flex;flex-direction:column;gap:46px;margin-top:14px}
+.stg{display:flex;gap:26px;align-items:flex-start}
+.stg .num{width:46px;height:46px;border-radius:50%;background:var(--accent,var(--teal));color:#101C38;font-weight:800;
+ font-size:18px;display:flex;align-items:center;justify-content:center;flex:none}
+.stg .txt{flex:1;min-width:220px;max-width:22em;padding-top:3px}
+.stg .txt h4{font-size:22px;font-weight:800;color:var(--accent,var(--teal));margin-bottom:9px;letter-spacing:-.01em}
+.stg .txt p{font-size:17px;color:#d7e0ea;margin:0}
+.stg .stgimg{flex:none;display:block;border-radius:13px;overflow:hidden;border:1px solid rgba(255,255,255,.14);
+ box-shadow:0 16px 40px -18px rgba(0,0,0,.6);background:#0d1730}
+.stg .stgimg img{display:block}
+.stg .stgimg.portrait img{height:440px;width:auto;max-width:100%}
+.stg .stgimg.landscape img{width:560px;max-width:100%;height:auto}
+@media(max-width:820px){.stg{flex-wrap:wrap}.stg .stgimg.landscape img{width:100%}.stg .stgimg.portrait img{height:auto;width:100%}}
 .meta{display:flex;flex-wrap:wrap;gap:34px;margin-top:44px;padding-top:30px;border-top:1px solid rgba(255,255,255,.1)}
 .meta div small{display:block;font-size:12px;letter-spacing:.16em;text-transform:uppercase;color:var(--dim);margin-bottom:6px}
 .meta div span{font-size:16px;font-weight:600}

diff --git a/3-3-medical-authority.html b/3-3-medical-authority.html
@@ -33,6 +33,19 @@ p{font-size:18px;color:#d7e0ea;margin-bottom:18px;max-width:44em}
 .shot img,.shot video{width:100%;display:block;background:#0d1730}
 .shot.wide img{border-bottom:1px solid rgba(255,255,255,.06)}
 .shot figcaption{padding:13px 16px 16px;font-size:13.5px;color:var(--dim);line-height:1.45}
+.stages{display:flex;flex-direction:column;gap:46px;margin-top:14px}
+.stg{display:flex;gap:26px;align-items:flex-start}
+.stg .num{width:46px;height:46px;border-radius:50%;background:var(--accent,var(--teal));color:#101C38;font-weight:800;
+ font-size:18px;display:flex;align-items:center;justify-content:center;flex:none}
+.stg .txt{flex:1;min-width:220px;max-width:22em;padding-top:3px}
+.stg .txt h4{font-size:22px;font-weight:800;color:var(--accent,var(--teal));margin-bottom:9px;letter-spacing:-.01em}
+.stg .txt p{font-size:17px;color:#d7e0ea;margin:0}
+.stg .stgimg{flex:none;display:block;border-radius:13px;overflow:hidden;border:1px solid rgba(255,255,255,.14);
+ box-shadow:0 16px 40px -18px rgba(0,0,0,.6);background:#0d1730}
+.stg .stgimg img{display:block}
+.stg .stgimg.portrait img{height:440px;width:auto;max-width:100%}
+.stg .stgimg.landscape img{width:560px;max-width:100%;height:auto}
+@media(max-width:820px){.stg{flex-wrap:wrap}.stg .stgimg.landscape img{width:100%}.stg .stgimg.portrait img{height:auto;width:100%}}
 .meta{display:flex;flex-wrap:wrap;gap:34px;margin-top:44px;padding-top:30px;border-top:1px solid rgba(255,255,255,.1)}
 .meta div small{display:block;font-size:12px;letter-spacing:.16em;text-transform:uppercase;color:var(--dim);margin-bottom:6px}
 .meta div span{font-size:16px;font-weight:600}